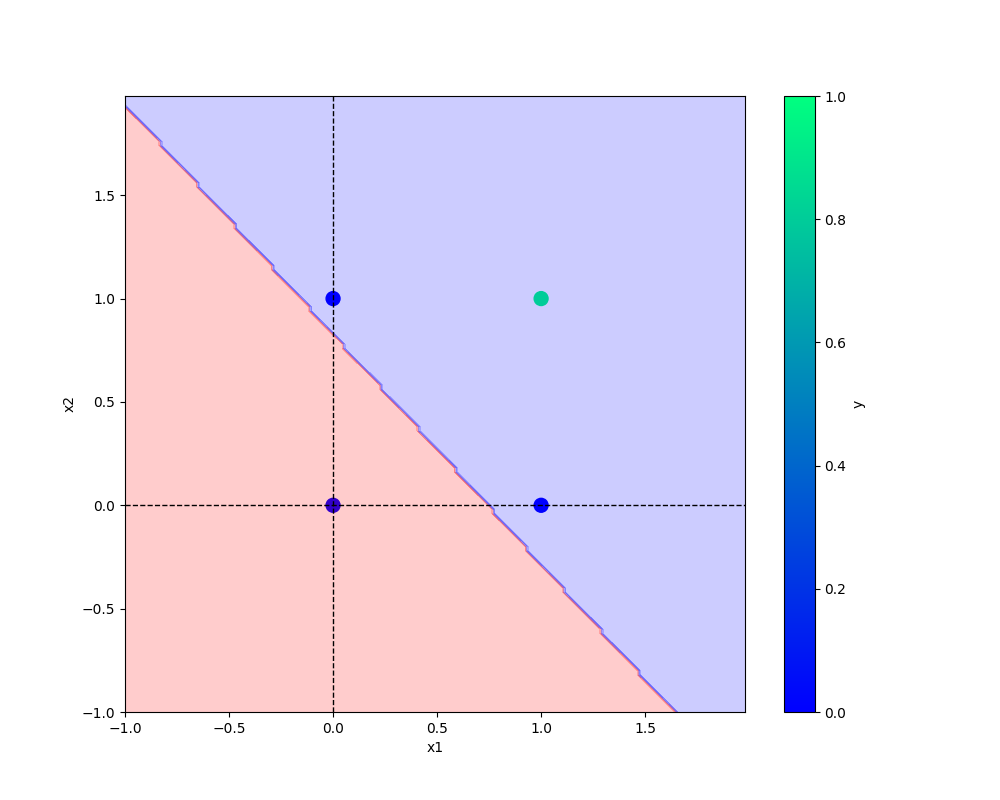
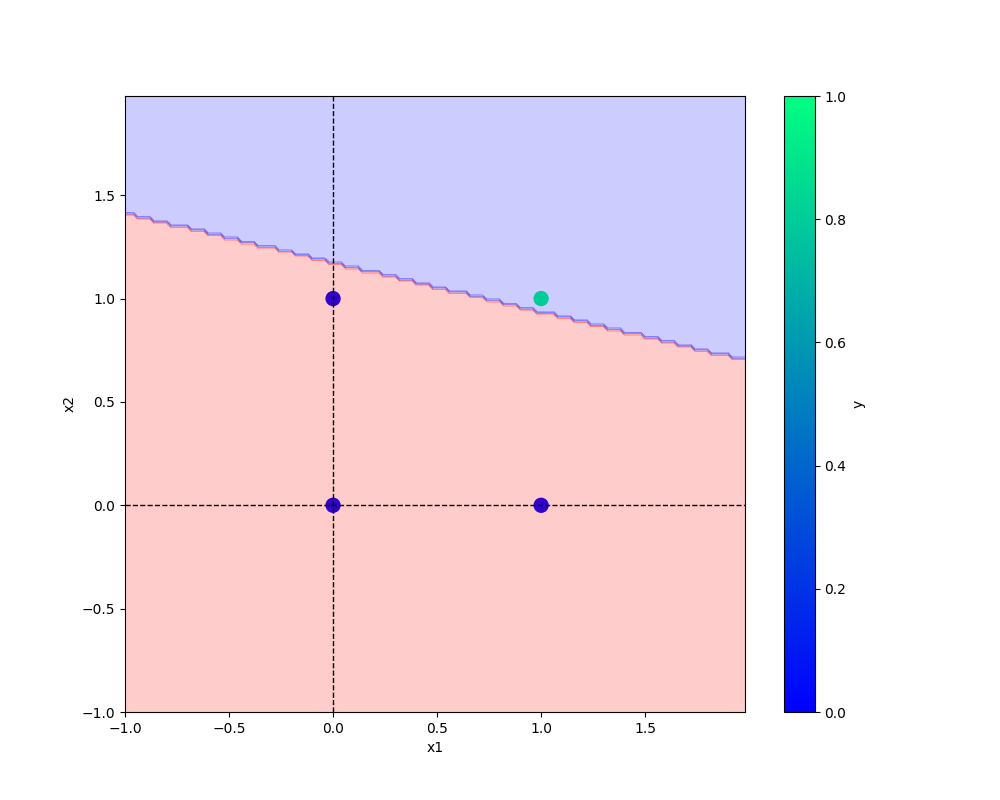
code organiserd

Changed region(s): [[0.124, 0.125, 0.744, 0.9062]]

diff --git a/or.py b/or.py
@@ -4,13 +4,15 @@ import numpy as np
 import pandas as pd 
 
 
-def main(data, eta, epochs, filename, plotFilename):
+def main(data, eta, epochs, plotFilename, filename):
 
     df = pd.DataFrame(data)
     print(df)
 
     X,y = prepare_data(df)
+    ETA = 0.3
 
+    EPOCHS = 10
 
     model = Perceptron(eta=eta, epochs=epochs)
     model.fit(X,y)
@@ -21,13 +23,12 @@ def main(data, eta, epochs, filename, plotFilename):
     save_plot(df, plotFilename, model)
 
 if __name__=='__main__': #'<<<entry point'
-    AND = {
+    OR = {
         "x1": [0,0,1,1],
         "x2": [0,1,0,1],
-        "y":  [0,0,0,1],
+        "y":  [0,1,1,1],
     }
-
     ETA = 0.3
     EPOCHS = 10
 
-    main(data=AND, eta=ETA, epochs=EPOCHS, filename="and.model", plotFilename="and.png")
+    main(data=OR, eta=ETA, epochs=EPOCHS, filename="or.model", plotFilename="or.png")
